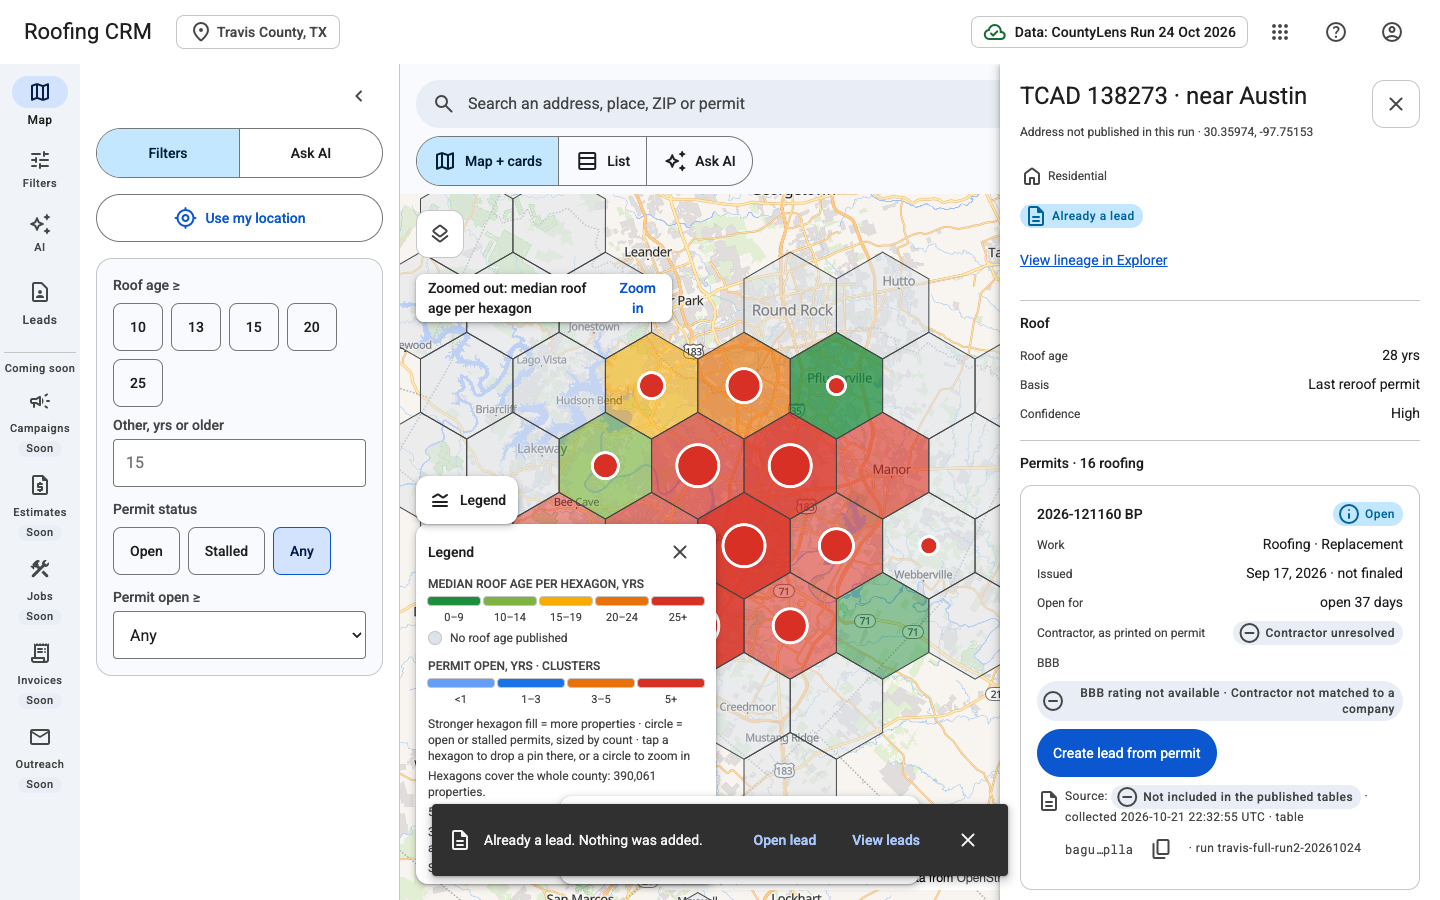
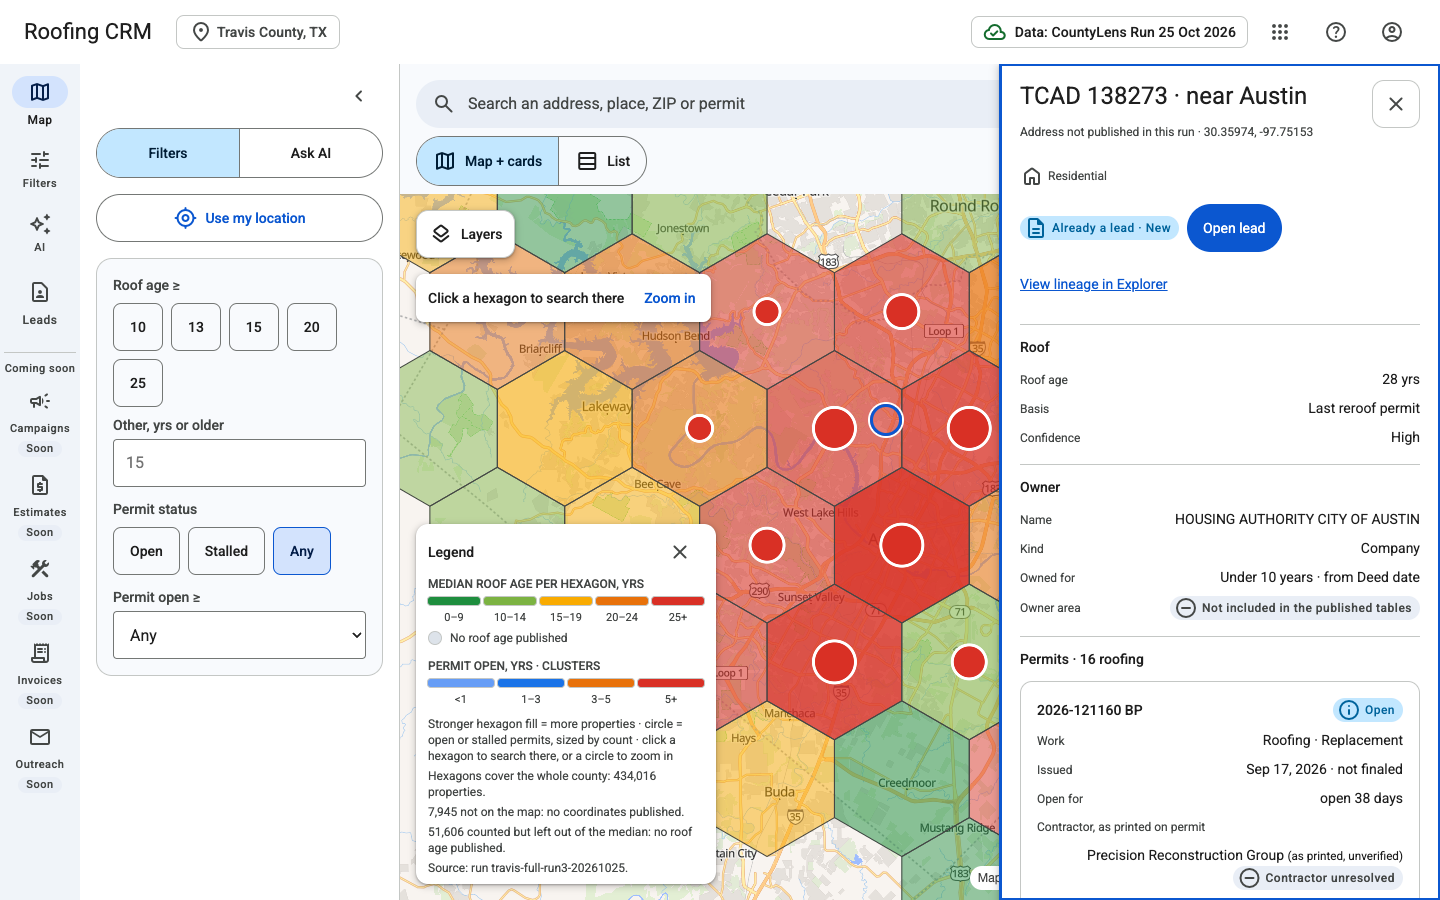
B-09: PR body, pending items and Task A answers describe Run 3; B-07 evidence screenshots re-taken on Run 3

Changed region(s): [[0.25, 0.1556, 1.0, 1.0], [0.9062, 0.3733, 1.0, 0.4978]]

diff --git a/docs/pr-body.md b/docs/pr-body.md
@@ -1,6 +1,6 @@
 # Roofing CRM, Travis County TX: all five stories built and proven on a hosted URL
 
-> **Draft.** Stories B-01, B-02, B-03, B-07 and B-09 are built, reviewed and merged (`--no-ff`, one merge per story). The app serves Task A's full-county Run 2 at **https://crm.aldarraj.com**. Still to do before this is ready for final review: the demo video, the self-score, and Task A's Run 3 (see Known gaps).
+> **Draft.** Stories B-01, B-02, B-03, B-07 and B-09 are built, reviewed and merged (`--no-ff`, one merge per story). Since 2026-10-25 the app serves Task A's full-county **Run 3** (contract v1.1) at **https://crm.aldarraj.com**. Still to do before this is ready for final review: the demo video, the self-score, and Task A's Run 3.1 (street addresses and owner ZIPs; see Known gaps).
 
 ## Outcome
 
@@ -13,7 +13,7 @@ A Roofing CRM that turns published Travis County property and permit data into r
 | Runtime (all five stories) | **https://crm.aldarraj.com** (Amplify, `eu-north-1`; certificate issued by Amazon, DNS at Namecheap). The build it serves is named at `/build.json`. Branch preview of the story branch: https://009-agent-hardening.d1zmhc6kkyzsbe.amplifyapp.com |
 | Test credentials | Username `admin@roofing-crm.test`. The password is in AWS Secrets Manager (`roofing-crm/admin-user`, `eu-north-1`) and is shared privately with the assessor, never in this PR |
 | Demo video | Not recorded yet (release step, listed in [`docs/pending-items.md`](https://github.com/HebaGaber/roofing-crm/blob/feature/roofing-crm/docs/pending-items.md)) |
-| Data source (Task A) | Run 2 manifest CID `bafkreife3vk3cgcod3v6tue2xes3hvl2vndqoshbhrhsnjtriskihpcute` (441,961 properties, 15,025 roofing permits equal to Task A's `permits_emitted`). The sync reads the manifest named by `DATA_MANIFEST_CID`, checks every part's SHA-256 against it, and promotes the index only if the checks pass. Requests never go to Task A at run time |
+| Data source (Task A) | Run 3 manifest CID `bafkreifndsdibdllvgpzwmif6getzwvc6rupk5tgeak4eypccaw3t7vlfm`, run `travis-full-run3-20261025` (441,961 properties, 15,025 Austin roofing permits equal to Task A's `permits_emitted`; Run 2 `bafkreife3vk3cgcod3v6tue2xes3hvl2vndqoshbhrhsnjtriskihpcute` is kept as `previous` for rollback). The sync reads the manifest named by `DATA_MANIFEST_CID`, checks every part's SHA-256 against it, and promotes the index only if the checks pass. Requests never go to Task A at run time |
 | CI | GitHub Actions runs on the fork, so they do not appear in this PR's checks list: [all runs on `feature/roofing-crm`](https://github.com/HebaGaber/roofing-crm/actions?query=branch%3Afeature%2Froofing-crm). The last full run on the story branch (lint, type-check, unit tests, secret scan, and Playwright on the hosted URL: 152 passed in the parallel phase, 80 in the isolated phase, 0 failed) is [40167849532](https://github.com/HebaGaber/roofing-crm/actions/runs/40167849532) |
 
 ## Evaluation points
@@ -21,10 +21,10 @@ A Roofing CRM that turns published Travis County property and permit data into r
 | Point | Story | Status | Evidence |
 | --- | --- | --- | --- |
 | B1 Location search | B-01, B-03 | Built and proven | [`docs/evidence/B-01.md`](https://github.com/HebaGaber/roofing-crm/blob/feature/roofing-crm/docs/evidence/B-01.md), [`docs/evidence/B-03.md`](https://github.com/HebaGaber/roofing-crm/blob/feature/roofing-crm/docs/evidence/B-03.md) |
-| B2 Aged-roof leads | B-02, B-03 | Built and proven. On Run 2 only about 2 % of properties have a roof age (Task A leaves `structure.roof_date` empty), and the app says so | [`docs/evidence/B-02.md`](https://github.com/HebaGaber/roofing-crm/blob/feature/roofing-crm/docs/evidence/B-02.md), [`docs/evidence/B-03.md`](https://github.com/HebaGaber/roofing-crm/blob/feature/roofing-crm/docs/evidence/B-03.md), [`docs/evidence/B-09.md`](https://github.com/HebaGaber/roofing-crm/blob/feature/roofing-crm/docs/evidence/B-09.md) |
-| B3 Open permits, contractor, BBB | B-02, B-03 | Built and proven; contractor name and BBB rating show "not published / not available" with a reason because Run 2 carries none | [`docs/evidence/B-03.md`](https://github.com/HebaGaber/roofing-crm/blob/feature/roofing-crm/docs/evidence/B-03.md) |
+| B2 Aged-roof leads | B-02, B-03 | Built and proven. On Run 3, 88 % of properties have a roof age, but 98 % of those are the year built (confidence Low, shown as "estimated from year built"); only 9,510 come from a closed roofing permit. Land parcels say "No building on this parcel" | [`docs/evidence/B-02.md`](https://github.com/HebaGaber/roofing-crm/blob/feature/roofing-crm/docs/evidence/B-02.md), [`docs/evidence/B-03.md`](https://github.com/HebaGaber/roofing-crm/blob/feature/roofing-crm/docs/evidence/B-03.md), [`docs/evidence/B-09.md`](https://github.com/HebaGaber/roofing-crm/blob/feature/roofing-crm/docs/evidence/B-09.md) |
+| B3 Open permits, contractor, BBB | B-02, B-03 | Built and proven; the contractor shows as printed on the permit (unverified, 4,139 permits) with a BBB search link; no BBB rating exists (BBB blocks the lookup) and every missing value shows its reason | [`docs/evidence/B-03.md`](https://github.com/HebaGaber/roofing-crm/blob/feature/roofing-crm/docs/evidence/B-03.md) |
 | B4 CRM leads (create, no duplicates, status, notes) | B-07 | Built and proven: 20 of 20 executed cases pass; 20 concurrent creates give exactly 1 lead; lead creation, bulk create and Undo also work from the agent | [`docs/evidence/B-07.md`](https://github.com/HebaGaber/roofing-crm/blob/feature/roofing-crm/docs/evidence/B-07.md), [`docs/reports/TR-B-07.md`](https://github.com/HebaGaber/roofing-crm/blob/feature/roofing-crm/docs/reports/TR-B-07.md) |
-| B5 RAG agent | B-09 | Built and proven on Run 2: golden queries G1 to G7 and A1 to A5 pass (several as honest answers, for example "owner location is not published"); every cited row was checked against the index; p95 11.5 s on the timed asks | [`docs/evidence/B-09.md`](https://github.com/HebaGaber/roofing-crm/blob/feature/roofing-crm/docs/evidence/B-09.md), [`docs/reports/TR-B-09.md`](https://github.com/HebaGaber/roofing-crm/blob/feature/roofing-crm/docs/reports/TR-B-09.md) |
+| B5 RAG agent | B-09 | Built and proven on Run 2 (not yet re-run on Run 3): golden queries G1 to G7 and A1 to A5 pass (several as honest answers, for example "owner location is not published"); every cited row was checked against the index; p95 11.5 s on the timed asks | [`docs/evidence/B-09.md`](https://github.com/HebaGaber/roofing-crm/blob/feature/roofing-crm/docs/evidence/B-09.md), [`docs/reports/TR-B-09.md`](https://github.com/HebaGaber/roofing-crm/blob/feature/roofing-crm/docs/reports/TR-B-09.md) |
 | B6 Candidate list, combined filters, scale, responsive, observable | B-07, B-09, B-01 | List and filters proven on the full county; radius searches take about 1 s at p50 and 1.3 s at p95 (6 to 25 mi); responsive checks at 360, 390, 600, 768, 1280 and 1440 px; DLQ alarm fired and recovered. The test cases that are not proven are listed in Known gaps | [`docs/evidence/B-07.md`](https://github.com/HebaGaber/roofing-crm/blob/feature/roofing-crm/docs/evidence/B-07.md), [`docs/evidence/B-09.md`](https://github.com/HebaGaber/roofing-crm/blob/feature/roofing-crm/docs/evidence/B-09.md) |
 
 The README criterion-by-criterion matrix is [`docs/traceability.md`](https://github.com/HebaGaber/roofing-crm/blob/feature/roofing-crm/docs/traceability.md).
@@ -44,7 +44,7 @@ The README criterion-by-criterion matrix is [`docs/traceability.md`](https://git
 | What | Result |
 | --- | --- |
 | Unit and integration tests | 1,743 passed, 0 failed across 179 test files; new code at or above 80 % coverage ([`docs/reports/UT-B-09.md`](https://github.com/HebaGaber/roofing-crm/blob/feature/roofing-crm/docs/reports/UT-B-09.md)) |
-| Hosted end-to-end, mobile 390 / tablet 768 / desktop 1440 | 152 passed in the parallel phase and 80 in the isolated phase, 0 failed (run 40167849532); fixtures are tied to Run 2 and a fixture-validity spec fails with refresh steps if the served data changes |
+| Hosted end-to-end, mobile 390 / tablet 768 / desktop 1440 | 152 passed in the parallel phase and 80 in the isolated phase, 0 failed (run 40167849532); fixtures were refreshed to Run 3 on 2026-10-26 and a fixture-validity spec fails with refresh steps if the served data changes |
 | Golden queries on the deployed agent | G1 to G7 and A1 to A5 pass on Run 2 after six passes; latency p95 11.5 s on 7 timed asks; the details and the answers that are honest empties are in [`docs/evidence/B-09.md`](https://github.com/HebaGaber/roofing-crm/blob/feature/roofing-crm/docs/evidence/B-09.md) |
 | Code review | B-09 final re-score: `alakazam` 84, `ash` 87, `metagross` 88, `audino` 82, `porygon` 84, plus `/code-review medium` on the final code (8 follow-ups, none Critical); no open Critical ([`docs/reviews/CR-B-09.md`](https://github.com/HebaGaber/roofing-crm/blob/feature/roofing-crm/docs/reviews/CR-B-09.md)) |
 | Defects | Every recorded defect is closed ([`docs/defects/`](https://github.com/HebaGaber/roofing-crm/tree/feature/roofing-crm/docs/defects/)). Found only on the live stack and fixed in this round: lead Undo failed on the real table (a DynamoDB reserved word), the agent could not check or propose leads (lead repository missing from the Lambda context), the sync failed on a result-size limit, and whole-county searches ran out of memory |
@@ -78,13 +78,13 @@ Every recorded gap, with its cause and what closes it, is in [`specs/007-leads/k
 | --- | --- | --- |
 | Demo video and self-score | Not recorded or written yet | Release steps R1 to R7 on the follow-up branch |
 | Test cases not proven (9 of 33 in B-09): TC-002 Open on map, TC-017 throttled and paused states at three widths, TC-019b, TC-024 timeout state in the browser, TC-NF-01 as specified (39 asks times 3 repeats; run once per query), and four design sign-offs | Approved as exceptions by the PO on 2026-10-25 | Listed in [`docs/reports/TR-B-09.md`](https://github.com/HebaGaber/roofing-crm/blob/feature/roofing-crm/docs/reports/TR-B-09.md) |
-| Task A data gaps in Run 2: roof date empty (only about 2 % of properties have a roof age), owner location and tenure largely missing, 51,900 properties without coordinates, no contractors or BBB | Task A's published data | Reported to the Task A session; the app shows "not published" with a reason, and the agent says so instead of guessing (golden query G4) |
+| Task A data gaps in Run 3: no street address and no owner mailing ZIP for any property (Task A fills both in Run 3.1, contract v1.2), no roof date from TCAD (built year stands in), 7,945 properties without coordinates, contractors only as printed and unverified, no BBB rating | Task A's published data | Reported to the Task A session; the app shows "not published" with a reason, and the agent says so instead of guessing (golden query G4) |
 | Final code review follow-ups (8): query timeout shares one database connection, four index methods without a time limit, and smaller items | Found by `/code-review medium` on the final code; none Critical | [`docs/reviews/CR-B-09.md`](https://github.com/HebaGaber/roofing-crm/blob/feature/roofing-crm/docs/reviews/CR-B-09.md), [`docs/pending-items.md`](https://github.com/HebaGaber/roofing-crm/blob/feature/roofing-crm/docs/pending-items.md) |
 | Scale: AC-4 at 50+ leads and list-load timing with 50+ leads | Decided by the PO as deferred, not passed; the full county is now loaded, so these can be run | Run them on the follow-up branch |
 | `leads.create` trusts the property details the client sends; no per-lead ownership checks | Not decided or built yet | The follow-up story |
-| No street address, contractor name or BBB rating in Run 2 | Task A's published data carries none | Shown as "not available" with a reason; fills in when Task A publishes them |
+| No street address in Run 3 | Task A's Parquet tables drop the address text (export-tool limit); Run 3.1 publishes it | Shown as "not available" with a reason; fills in when Task A publishes them |
 | CI reaches AWS with a long-lived access key of a narrowly scoped IAM user (`crm-ci`) | The organization policy blocks the GitHub-to-AWS role, so OIDC is not possible | The key can only read and delete test leads and publish metrics; it is retired after the final CI run (listed in [`docs/pending-items.md`](https://github.com/HebaGaber/roofing-crm/blob/feature/roofing-crm/docs/pending-items.md)) |
-| Run 3 handling and the release steps R1 to R7 (self-score, demo video, marking the PR ready) | Moved out of B-09 by the PO; the app serves Task A's Run 2 | Listed with their steps in [`docs/pending-items.md`](https://github.com/HebaGaber/roofing-crm/blob/feature/roofing-crm/docs/pending-items.md), for the follow-up branch |
+| Run 3 handling and the release steps R1 to R7 (self-score, demo video, marking the PR ready) | Run 3 is live; the release steps were moved out of B-09 by the PO | Listed with their steps in [`docs/pending-items.md`](https://github.com/HebaGaber/roofing-crm/blob/feature/roofing-crm/docs/pending-items.md), for the follow-up branch |
 | Incremental Task A runs (Run 3+) are not followed yet | Task A publishes only changed data groups per run, linked by `previousManifestCid`; the sync reads one manifest, so a delta-only run is held and the CRM stays on the last good run | Deferred by the PO: chain-following ships as an update after Tasks A and B, with the "coming soon" sections |
 | Lambda concurrency is 10 on this Free-plan account | Raising it needs a paid plan | The 20-concurrent-create test retries throttled calls and still proves exactly one winner |
 

diff --git a/docs/pending-items.md b/docs/pending-items.md
@@ -4,16 +4,19 @@ Created 2026-10-25 at the PO's request. B-09 closes and merges on Task A's **Run
 
 Rules that carry over: never merge the PR into `prismteam-ai/roofing-crm`; no `#` followed by a number in commits, PR text or comments (the fork links it to other candidates' PRs; write `F-8` or "finding 8"); commit messages start with the story ID; no secrets in git or logs; AWS profile `assess`, region `eu-north-1`.
 
-## 0. State at B-09 close
+## 0. State now (updated 2026-10-26)
 
 | Item | Value |
 | --- | --- |
-| Data the app serves | Task A Run 2, run `travis-full-run2-20261024`, manifest `bafkreife3vk3cgcod3v6tue2xes3hvl2vndqoshbhrhsnjtriskihpcute` |
-| Index size | 441,961 properties, 15,025 roofing permits (equal to Task A's `permits_emitted`), 130 of 225 table parts fetched (about 322 MB) |
-| Where Run 2 specifics live | `tests/e2e/lib/run-fixtures.ts` (with `fixtures-valid.spec.ts` and `refresh-fixtures.md`), `tests/agent/golden.json` (`manifestCid`), `testplans/B-09-test-cases.md` section 5, `docs/evidence/B-09.md`, the pinned CID in tests and specs |
-| How a new run is picked up | Change `DATA_MANIFEST_CID`; a deploy writes it to the SSM parameter `/crm/sync/data-manifest-cid` and starts one sync (execution name `{cid}-{deployNonce}`); an already promoted CID is a no-op |
-| Deploy method | Clean checkout of the commit, `aws configure export-credentials --profile assess --format env`, then `cdk deploy --all --require-approval never` from `infra/` with `AWS_REGION`, `CDK_DEFAULT_REGION`, `CDK_DEFAULT_ACCOUNT=515618610572`, `DATA_MANIFEST_CID`, `AI_PROVIDER=bedrock`, `AGENT_MODEL_ID=eu.anthropic.claude-sonnet-4-6`. Docker must be running (the three DuckDB Lambdas bundle in a container). |
-| CI | Green path: `workspace` (about 2 min, arm64 runner) and `e2e-hosted` (two phases; waits for `/build.json` to name its own commit). CI uses the scoped `crm-ci` IAM user via two repository secrets. |
+| Data the app serves | Task A **Run 3**, run `travis-full-run3-20261025`, manifest `bafkreifndsdibdllvgpzwmif6getzwvc6rupk5tgeak4eypccaw3t7vlfm`, promoted 2026-10-25 20:27Z. Run 2 (`bafkreife3vk3c...`) is `previous`. |
+| Index size | 441,961 properties, 15,025 Austin roofing permits; 190 of 255 table parts fetched (0.92 GB) |
+| Done for Run 3 | contract v1.1 and views vendored (`docs/reuse-log.md`); index carries tenure basis, address-point coordinates, owner name (ADR-03 amended: shown, never sent to the model), printed contractor, BBB state and link; cost-gate document limit 1,000,000; BuildIndex DuckDB limit 2,400 MB (first sync ran out of memory at 1,800 MB); e2e fixtures refreshed; lineage link fixed (`/tx/travis/explore`) |
+| Still Run 2 | `tests/agent/golden.json` (`manifestCid`), `testplans/B-09-test-cases.md` section 5, `docs/evidence/B-09.md`, golden queries (about $1 of Bedrock) and the real-data perf test (`CRM_PERF=1`) have not been re-run on Run 3 |
+| Waiting on Task A | **Run 3.1** (manifest `bafkreiae3kzxqnbf6fhf6gqqq7waic4xeltzy5u35ob5x4w2af5ycelbtu`, built, not published; do not vendor or sync until Task A sends the published CID and the commit). It adds street address and owner ZIP columns (contract v1.2), 413 more printed contractors. Task A's answers to the 13 gap questions: `docs/task-a-questions-run3.md` |
+| To do when Run 3.1 arrives | vendor contract v1.2 and views; carry `unnormalized_address`, `owner_mailing_postal_code`, `owner_mailing_state_code` into the index; show the address and owner area; re-check cost gate and BuildIndex memory; set `DATA_MANIFEST_CID`, deploy, read the sync; refresh fixtures; a working search box (today it is decorative) |
+| How a new run is picked up | Change `DATA_MANIFEST_CID` (GitHub repository variable and the deploy shell); a deploy writes it to the SSM parameter `/crm/sync/data-manifest-cid` and starts one sync (execution name `{cid}-{deployNonce}`); an already promoted CID is a no-op |
+| Deploy method | Clean checkout of the commit, `aws configure export-credentials --profile assess --format env`, then `cdk deploy --all --require-approval never` from `infra/` with `AWS_REGION`, `CDK_DEFAULT_REGION`, `CDK_DEFAULT_ACCOUNT=515618610572`, `DATA_MANIFEST_CID`, `AI_PROVIDER=bedrock`, `AGENT_MODEL_ID=eu.anthropic.claude-sonnet-4-6`. Docker must be running. |
+| CI | `workspace`, `gitleaks` and `e2e-hosted` (two phases). The hosted phase waits for `/build.json` to name its own commit. |
 
 ## 1. Run 3 handling (the main follow-up)
 

diff --git a/docs/task-a-questions-run3.md b/docs/task-a-questions-run3.md
@@ -33,3 +33,17 @@ Written 2026-10-25 by the CRM side. Source: Run 3 manifest `bafkreifndsdibdllvgp
 12. **CloudFront returns 403 (not 404)** for files not copied yet. When will the CloudFront copy be complete for Run 3, so the CRM does not depend on the Filebase fallback?
 13. **Contract versioning:** columns are now 58 (v1.1) but the folder is still `contract/v1`. Will the next additive change be called v1.2 in the same folder, and will you announce it? The CRM re-vendors from your branch by commit.
 14. **A stable link to one property in the Explorer.** Since A-13 the Explorer lives at `/tx/travis/explore`; the old `/explore` answers 404, which broke the CRM's "View lineage in Explorer" link. The Explorer opens a property from `sel` only when that property is among the current search results, so the CRM now sends `at=<lat>,<lon>&r=1&sel=<cid>`. Can you publish a route that opens a property by CID alone (for example `/tx/travis/property/{cid}`) and keep it stable? Also, the Explorer's server search answered "could not run on the server" on the first try and worked on retry (2026-10-26): is a cold start expected?
+
+## Task A's answers (2026-10-26) and what the CRM does with them
+
+| Q | Answer in short | CRM action |
+| --- | --- | --- |
+| 1, 2 | The export tool drops the address text from the table; Run 3.1 re-exports with a patch: `unnormalized_address`, `owner_mailing_postal_code`, `owner_mailing_state_code` (contract v1.2). The CAR-reader idea was withdrawn. | Wait for Run 3.1; no CAR reader. Situs city and ZIP stay gaps (not parsed). |
+| 3, 4 | 4,139 permits print a company; 416 only a person; 10,470 print none (10,436 are pre-2000). Run 3.1 adds 413 (4,552). Nothing is verified. | Show every contractor as printed, unverified. |
+| 5 | No BBB rating will be published. Link without `find_type` (PO checked by hand). | Done (`fab427a`, and stripped on screen). |
+| 6 | Built year (confidence Low) is a stand-in they keep. | "estimated from year built" shown. |
+| 7, 8 | Open (80) and stalled (1,674) permits are published; no other jurisdictions are planned; 1,974 decided roofing permits unlinked. | Demo and docs say permits are Austin only. |
+| 9, 10 | R accounts only. 32,572 no-owner properties are 15,410 confidential plus 17,160 unparsed names. | Label: "Owner not published (confidential or name not parsed)". |
+| 11, 12, 13 | Every run is a full snapshot. CloudFront now holds all 255 table parts and the manifest. Additive columns stay in contract/v1 (named v1.2). | No chain-following needed. |
+| 14 | Open. | Lineage link uses `at`, `r` and `sel` meanwhile. |
+
